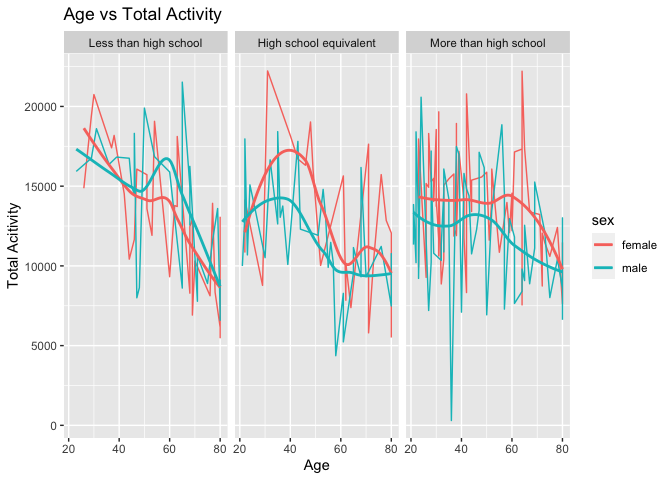
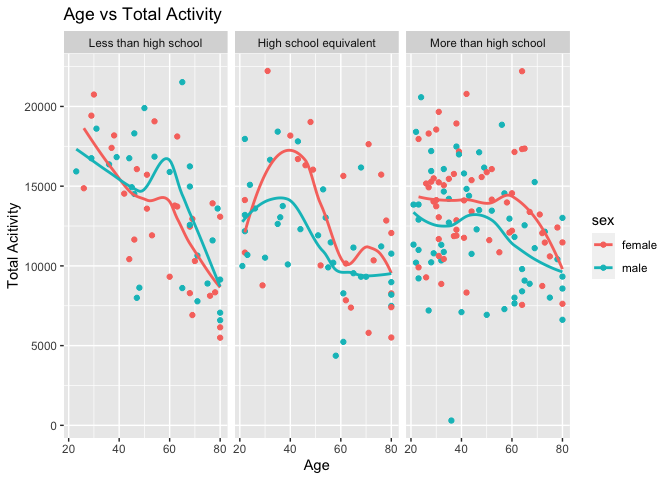
make changes to problem2

Changed region(s): [[0.0938, 0.125, 0.8438, 0.875], [0.375, 0.125, 0.4062, 0.1875]]

diff --git a/p8105_hw3_sc5352.md b/p8105_hw3_sc5352.md
@@ -268,28 +268,20 @@ combine_data =
 
 ``` r
 combine_data_readfriendly = 
-  combine_data |>
+  covar |>
+  filter(age >= 21) |>
   group_by(sex, education) |>
-  summarize(n_obs = n()) 
-```
-
-    ## `summarise()` has grouped output by 'sex'. You can override using the `.groups`
-    ## argument.
-
-``` r
+  tally()|>
+  pivot_wider(names_from = sex,values_from = n)|>
+  knitr::kable()
 combine_data_readfriendly
 ```
 
-    ## # A tibble: 6 × 3
-    ## # Groups:   sex [2]
-    ##   sex    education              n_obs
-    ##   <chr>  <ord>                  <int>
-    ## 1 female Less than high school  40320
-    ## 2 female High school equivalent 33120
-    ## 3 female More than high school  84960
-    ## 4 male   Less than high school  38880
-    ## 5 male   High school equivalent 50400
-    ## 6 male   More than high school  80640
+| education              | female | male |
+|:-----------------------|-------:|-----:|
+| High school equivalent |     23 |   35 |
+| Less than high school  |     28 |   27 |
+| More than high school  |     59 |   56 |
 
 `Female` with `More than high school` has the highest number with 84960.
 However, `Female` with `High school equivalent` has the lowest number
@@ -325,7 +317,7 @@ combine_data_new =
   select(-minute, -minute_value)
 
 ggplot(combine_data_new, aes(x = age, y = total_act, color = sex)) + 
-  geom_line() + 
+  geom_point() + 
   facet_grid(.~education) +
   geom_smooth(se = FALSE) +
   labs(
@@ -353,7 +345,7 @@ combine_data_plot =
   ggplot(aes(x = minute, y = minute_value, color = sex)) + 
   geom_point(alpha = 0.5) + 
   facet_grid(.~education) +
-  geom_smooth(se = FALSE) +
+  geom_smooth() +
   labs(
     title = "Minute vs Minute Acitivity",
     x = "Minute",
